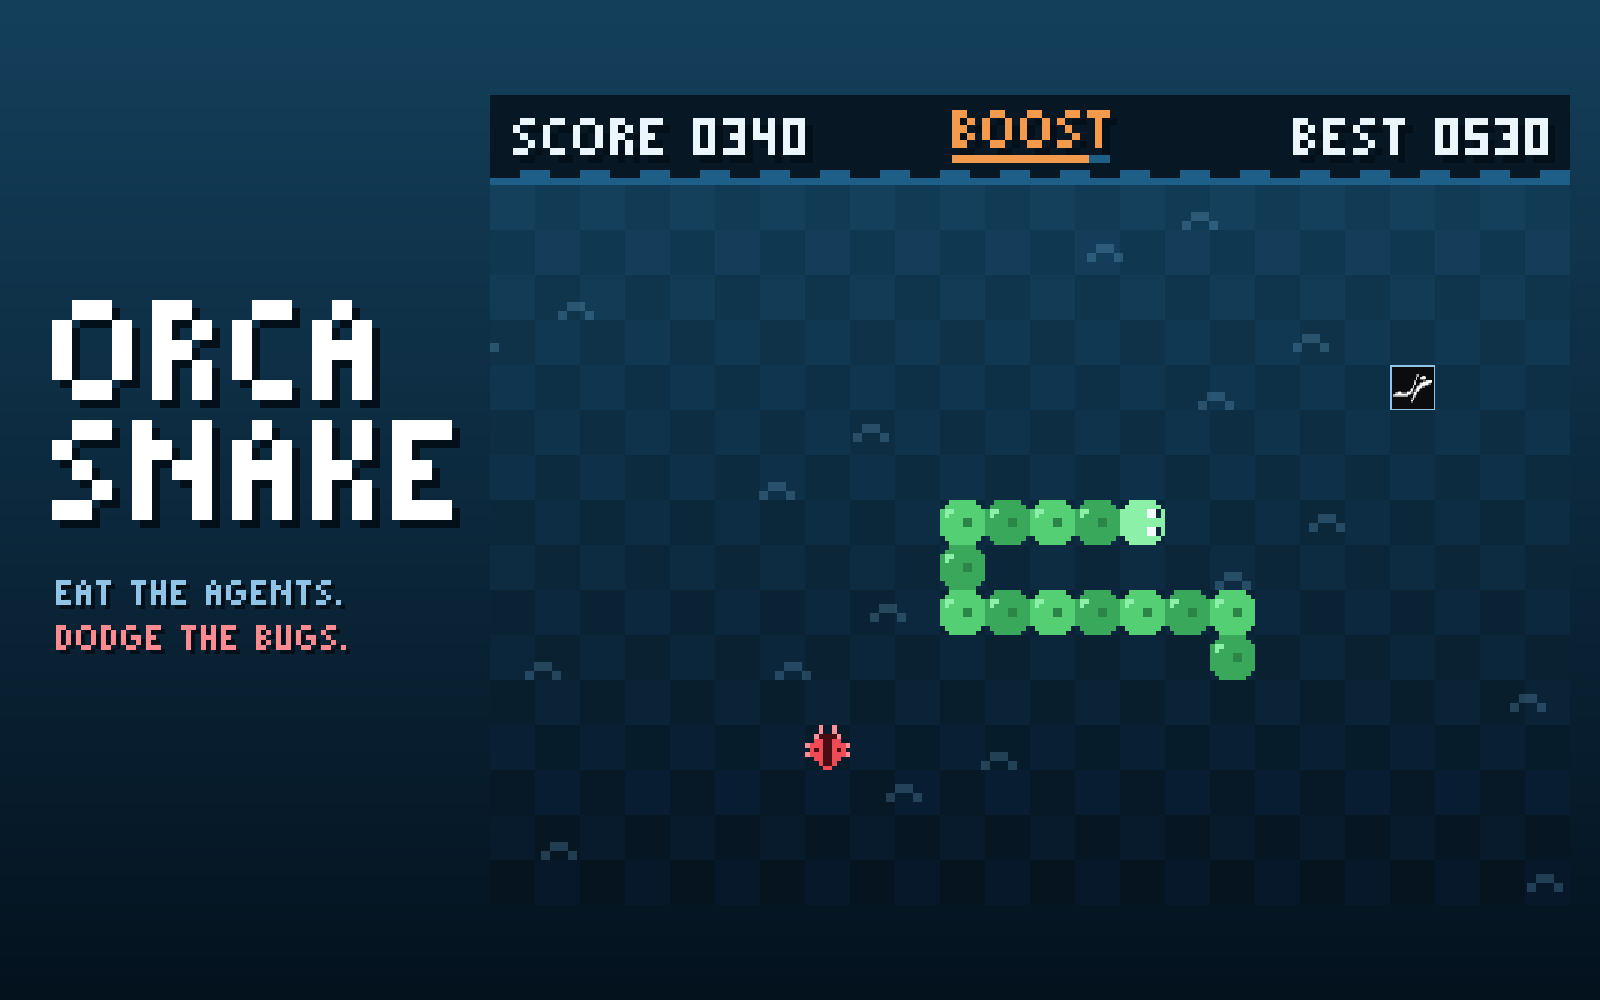
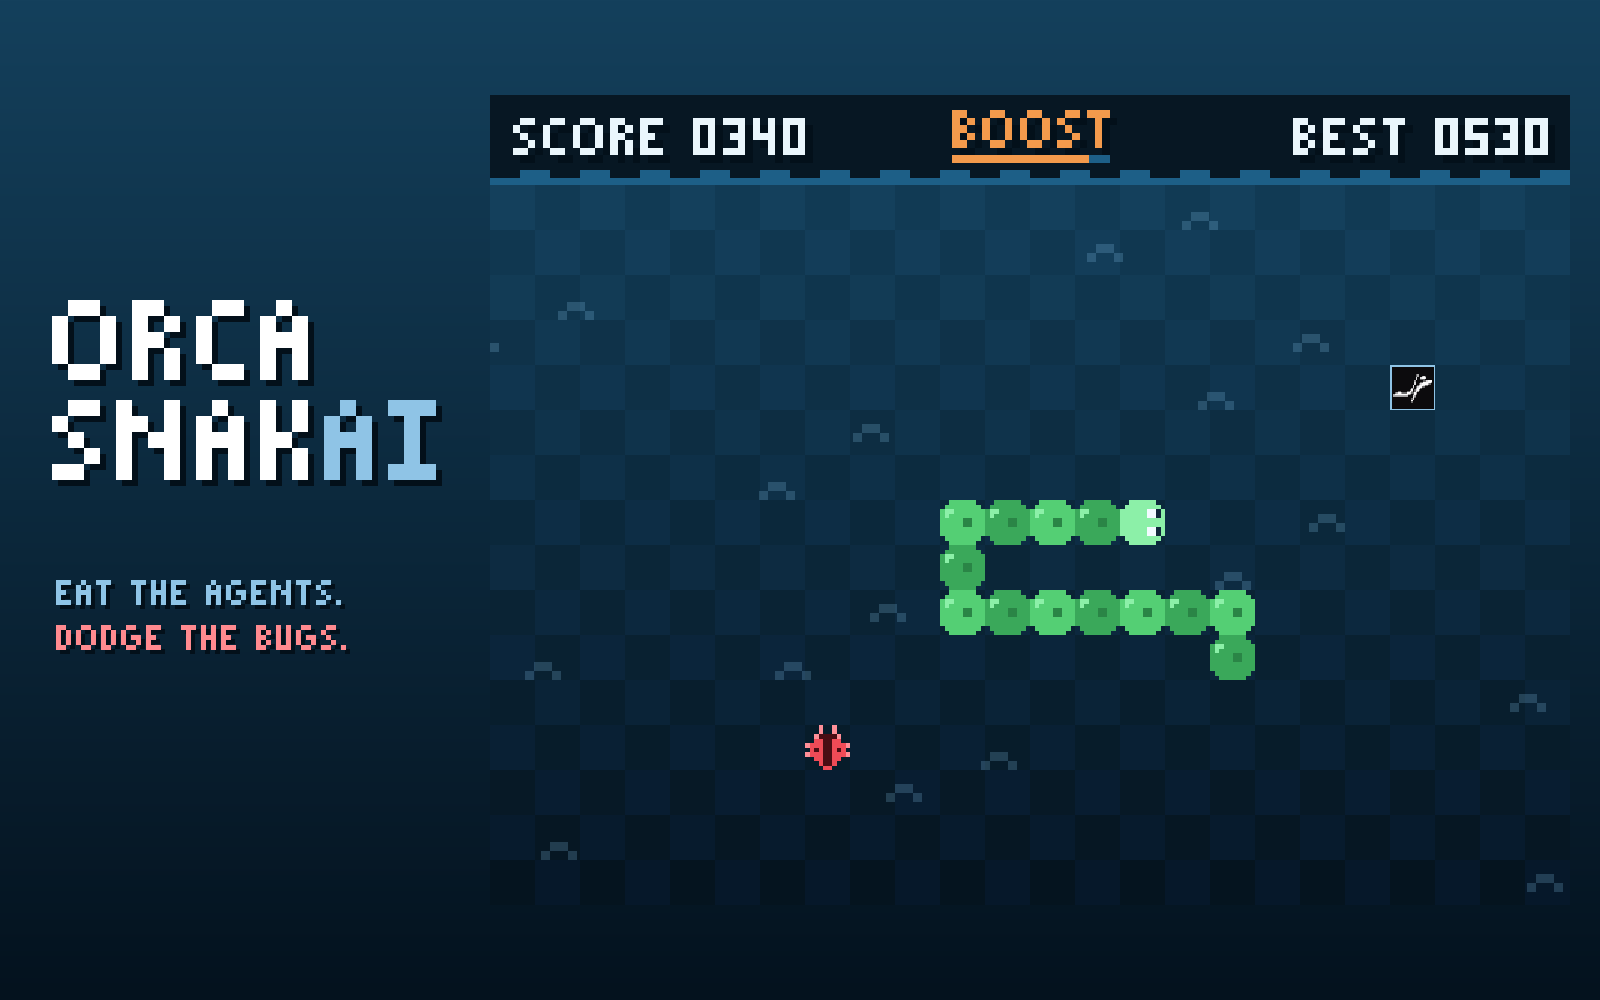
Rename the display name to Orca snakAI

Changed region(s): [[0.0312, 0.279, 0.3125, 0.527]]

diff --git a/plugins/orca-snake/panel/index.html b/plugins/orca-snake/panel/index.html
@@ -4,7 +4,7 @@
 <meta charset="utf-8">
 <meta name="viewport" content="width=device-width, initial-scale=1">
 <meta http-equiv="Content-Security-Policy" content="default-src 'none'; connect-src 'none'; script-src 'unsafe-inline'; style-src 'unsafe-inline'; img-src data:; font-src data:; base-uri 'none'; form-action 'none'">
-<title>Orca Snake</title>
+<title>Orca snakAI</title>
 <style>:root {
   color-scheme: light;
   --page: var(--orca-background, #f4f9fc);
@@ -28,11 +28,11 @@ canvas:focus-visible { outline: 3px solid var(--focus); outline-offset: 3px; }
 </head>
 <body>
 <main>
-  <h1 class="sr-only">Orca Snake</h1>
-  <div class="playfield" id="playfield"><canvas id="game" tabindex="0" width="720" height="540" aria-label="Orca Snake. Arrow keys or WASD to steer, P or Escape to pause, Space to restart."></canvas></div>
+  <h1 class="sr-only">Orca snakAI</h1>
+  <div class="playfield" id="playfield"><canvas id="game" tabindex="0" width="720" height="540" aria-label="Orca snakAI. Arrow keys or WASD to steer, P or Escape to pause, Space to restart."></canvas></div>
   <p id="announcement" class="status" aria-live="polite"></p>
 </main>
-<script>/* Orca Snake — original canvas game. Copyright (c) 2026 gentilfp. MIT. */
+<script>/* Orca snakAI — original canvas game. Copyright (c) 2026 gentilfp. MIT. */
 (function () {
   'use strict';
   const COLUMNS = 24;
@@ -842,7 +842,7 @@ canvas:focus-visible { outline: 3px solid var(--focus); outline-offset: 3px; }
 
   window.createOrcaSnakeRenderer = function (canvas) {
     const ctx = canvas && typeof canvas.getContext === 'function' ? canvas.getContext('2d') : null;
-    if (!ctx) throw new Error('Orca Snake needs a 2D canvas.');
+    if (!ctx) throw new Error('Orca snakAI needs a 2D canvas.');
     ctx.imageSmoothingEnabled = false;
 
     const hooks = Object.create(null);
@@ -1175,7 +1175,7 @@ canvas:focus-visible { outline: 3px solid var(--focus); outline-offset: 3px; }
   // Registers three render hooks. Idle hooks draw nothing and return false, so OSN-3 is unaffected.
   window.installOrcaSnakeEffects = function (renderer) {
     if (!renderer || typeof renderer.addHook !== 'function') {
-      throw new Error('Orca Snake effects need a renderer.');
+      throw new Error('Orca snakAI effects need a renderer.');
     }
 
     let labels = [];

diff --git a/plugins/orca-snake/src/panel.html b/plugins/orca-snake/src/panel.html
@@ -4,13 +4,13 @@
 <meta charset="utf-8">
 <meta name="viewport" content="width=device-width, initial-scale=1">
 <meta http-equiv="Content-Security-Policy" content="default-src 'none'; connect-src 'none'; script-src 'unsafe-inline'; style-src 'unsafe-inline'; img-src data:; font-src data:; base-uri 'none'; form-action 'none'">
-<title>Orca Snake</title>
+<title>Orca snakAI</title>
 <style>/* PANEL_STYLES */</style>
 </head>
 <body>
 <main>
-  <h1 class="sr-only">Orca Snake</h1>
-  <div class="playfield" id="playfield"><canvas id="game" tabindex="0" width="720" height="540" aria-label="Orca Snake. Arrow keys or WASD to steer, P or Escape to pause, Space to restart."></canvas></div>
+  <h1 class="sr-only">Orca snakAI</h1>
+  <div class="playfield" id="playfield"><canvas id="game" tabindex="0" width="720" height="540" aria-label="Orca snakAI. Arrow keys or WASD to steer, P or Escape to pause, Space to restart."></canvas></div>
   <p id="announcement" class="status" aria-live="polite"></p>
 </main>
 <script>/* GAME_ENGINE */</script>

diff --git a/plugins/orca-snake/src/game.js b/plugins/orca-snake/src/game.js
@@ -1,4 +1,4 @@
-/* Orca Snake — original canvas game. Copyright (c) 2026 gentilfp. MIT. */
+/* Orca snakAI — original canvas game. Copyright (c) 2026 gentilfp. MIT. */
 (function () {
   'use strict';
   const COLUMNS = 24;
@@ -808,7 +808,7 @@
 
   window.createOrcaSnakeRenderer = function (canvas) {
     const ctx = canvas && typeof canvas.getContext === 'function' ? canvas.getContext('2d') : null;
-    if (!ctx) throw new Error('Orca Snake needs a 2D canvas.');
+    if (!ctx) throw new Error('Orca snakAI needs a 2D canvas.');
     ctx.imageSmoothingEnabled = false;
 
     const hooks = Object.create(null);
@@ -1141,7 +1141,7 @@
   // Registers three render hooks. Idle hooks draw nothing and return false, so OSN-3 is unaffected.
   window.installOrcaSnakeEffects = function (renderer) {
     if (!renderer || typeof renderer.addHook !== 'function') {
-      throw new Error('Orca Snake effects need a renderer.');
+      throw new Error('Orca snakAI effects need a renderer.');
     }
 
     let labels = [];

diff --git a/plugins/orca-snake/dev.html b/plugins/orca-snake/dev.html
@@ -3,13 +3,13 @@
 <head>
 <meta charset="utf-8">
 <meta name="viewport" content="width=device-width, initial-scale=1">
-<title>Orca Snake (dev)</title>
+<title>Orca snakAI (dev)</title>
 <link rel="stylesheet" href="src/panel.css">
 </head>
 <body>
 <main>
-  <h1 class="sr-only">Orca Snake</h1>
-  <div class="playfield" id="playfield"><canvas id="game" tabindex="0" width="720" height="540" aria-label="Orca Snake. Arrow keys or WASD to steer, P or Escape to pause, Space to restart."></canvas></div>
+  <h1 class="sr-only">Orca snakAI</h1>
+  <div class="playfield" id="playfield"><canvas id="game" tabindex="0" width="720" height="540" aria-label="Orca snakAI. Arrow keys or WASD to steer, P or Escape to pause, Space to restart."></canvas></div>
   <p id="announcement" class="status" aria-live="polite"></p>
 </main>
 <script src="src/game.js"></script>

diff --git a/plugins/orca-snake/README.md b/plugins/orca-snake/README.md
@@ -1,11 +1,11 @@
-# Orca Snake 🐍🌊
+# Orca snakAI 🐍🌊
 
 A tiny Snake game that lives inside Orca, as a side panel plugin.
 
 You steer a little green snake through the ocean and eat coding agents instead of apples.
 Watch out for the bugs.
 
-![Orca Snake gameplay](../../docs/demo.gif)
+![Orca snakAI gameplay](../../docs/demo.gif)
 
 ## How to play
 
@@ -41,7 +41,7 @@ orca plugin open gentilfp.orca-snake --panel snake
 ```
 
 Orca may print a fingerprint the first time. Re-run the `load` command with `--approve <fingerprint>`.
-Or open the panel from the **Orca Snake** icon in the right sidebar.
+Or open the panel from the **Orca snakAI** icon in the right sidebar.
 
 No Orca? Open `plugins/orca-snake/dev.html` in any browser and play there.
 

diff --git a/README.md b/README.md
@@ -1,8 +1,8 @@
-# Orca Snake 🐍🌊
+# Orca snakAI 🐍🌊
 
 A tiny Snake game that lives inside Orca, as a side panel plugin. Eat coding agents, dodge the bugs.
 
-![Orca Snake gameplay](docs/demo.gif)
+![Orca snakAI gameplay](docs/demo.gif)
 
 The plugin is in [`plugins/orca-snake`](plugins/orca-snake). Its README has the controls and how to install it.
 
